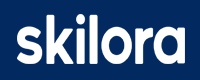
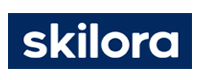
skilora image changes and index ads image changes

diff --git a/css/custom.css b/css/custom.css
@@ -3400,5 +3400,9 @@ span.csmorbtn {
     background: #022a61;
 }
 
+.palogoimg-bg2{
+    background: #022a61;
+}
+
 
 /*# sourceMappingURL=custom.css.map */

diff --git a/partners.php b/partners.php
@@ -45,6 +45,43 @@
 <div class="partners_page">
 <div class="container">
 <div class="row">
+
+<div class="col-lg-3 col-sm-6 display_flex wow fadeInUp" data-wow-duration="1s" data-wow-delay=".6s">
+<a class="partlogobox" href="https://skilora.com/" target="_blank">
+<div class="partlogobox_in">
+<div class="palogoimg palogoimg-bg2"><img src="images/case-study/partners/skilora-new.png"> </div>  
+<div class="palogotitle"><h4>Skilora</h4></div>  
+</div>
+</a>
+</div>
+
+<div class="col-lg-3 col-sm-6 display_flex wow fadeInUp" data-wow-duration="1s" data-wow-delay=".6s">
+<a class="partlogobox" href="https://www.sesametechnologies.net/" target="_blank">
+<div class="partlogobox_in">
+<div class="palogoimg"><img src="images/case-study/partners/se-same.png"> </div>  
+<div class="palogotitle"><h4>Sesame</h4></div>  
+</div>
+</a>
+</div>
+
+<div class="col-lg-3 col-sm-6 display_flex wow fadeInUp" data-wow-duration="1s" data-wow-delay=".2s">
+<a class="partlogobox" href="https://primalcodes.com/" target="_blank">
+<div class="partlogobox_in">
+<div class="palogoimg"><img src="images/case-study//partners/primal-codes.png"> </div>  
+<div class="palogotitle"><h4>Primalcodes</h4></div>  
+</div>
+</a>
+</div>
+
+<div class="col-lg-3 col-sm-6 display_flex wow fadeInUp" data-wow-duration="1s" data-wow-delay=".4s">
+<a class="partlogobox" href="https://www.seamedia.in/" target="_blank">
+<div class="partlogobox_in">
+<div class="palogoimg palogoimg-bg"><img src="images/case-study/partners/sea-media.png"> </div>  
+<div class="palogotitle"><h4>Seamedia</h4></div>  
+</div>
+</a>
+</div>
+
 <div class="col-lg-3 col-sm-6 display_flex wow fadeInUp" data-wow-duration="1s" data-wow-delay="0s">
 <a class="partlogobox " href="https://aiderpro.com/" target="_blank">
 <div class="partlogobox_in">
@@ -54,41 +91,13 @@
 </a>
 </div>
 
-    <div class="col-lg-3 col-sm-6 display_flex wow fadeInUp" data-wow-duration="1s" data-wow-delay=".2s">
-<a class="partlogobox" href="https://primalcodes.com/" target="_blank">
-<div class="partlogobox_in">
-<div class="palogoimg"><img src="images/case-study//partners/primal-codes.png"> </div>  
-<div class="palogotitle"><h4>Primalcodes</h4></div>  
-</div>
-</a>
-</div>
     
-    <div class="col-lg-3 col-sm-6 display_flex wow fadeInUp" data-wow-duration="1s" data-wow-delay=".4s">
-<a class="partlogobox" href="https://www.seamedia.in/" target="_blank">
-<div class="partlogobox_in">
-<div class="palogoimg palogoimg-bg"><img src="images/case-study/partners/sea-media.png"> </div>  
-<div class="palogotitle"><h4>Seamedia</h4></div>  
-</div>
-</a>
-</div>
     
- <div class="col-lg-3 col-sm-6 display_flex wow fadeInUp" data-wow-duration="1s" data-wow-delay=".6s">
-<a class="partlogobox" href="https://www.sesametechnologies.net/" target="_blank">
-<div class="partlogobox_in">
-<div class="palogoimg"><img src="images/case-study/partners/se-same.png"> </div>  
-<div class="palogotitle"><h4>Sesame</h4></div>  
-</div>
-</a>
-</div>
+    
+    
+ 
 
-<div class="col-lg-3 col-sm-6 display_flex wow fadeInUp" data-wow-duration="1s" data-wow-delay=".6s">
-<a class="partlogobox" href="https://skilora.com/" target="_blank">
-<div class="partlogobox_in">
-<div class="palogoimg"><img src="images/case-study/partners/skilora-new.png"> </div>  
-<div class="palogotitle"><h4>Skilora</h4></div>  
-</div>
-</a>
-</div>
+
     
    
     

diff --git a/index.php b/index.php
@@ -23,7 +23,7 @@
 <body>
 
 <div class="body_wraper">
-<?php include 'header.php'?>  
+<?php include 'header.php'; ?>  
     
 <section>
 <div class="bannersec">
@@ -196,13 +196,13 @@ Served</h5>
 <div id="cas-slider">
 <div class="item ">
 <div class="casslider_box">
-<img src="images/cas/1.jpg">
+<img src="images/cas/2.jpg">
 </div>
 </div>
   
 <div class="item ">
 <div class="casslider_box">
-<img src="images/cas/1.jpg">
+<img src="images/cas/3.jpg">
 </div>
 </div>
                             
@@ -473,7 +473,7 @@ dummy text ever since the 1500s, when an unknown</p>
 </div>    
 </section>
     
- <?php include 'footer.php'?>  
+ <?php include 'footer.php'; ?>  
     
 </div> <!-- bodywrapper-->
     
